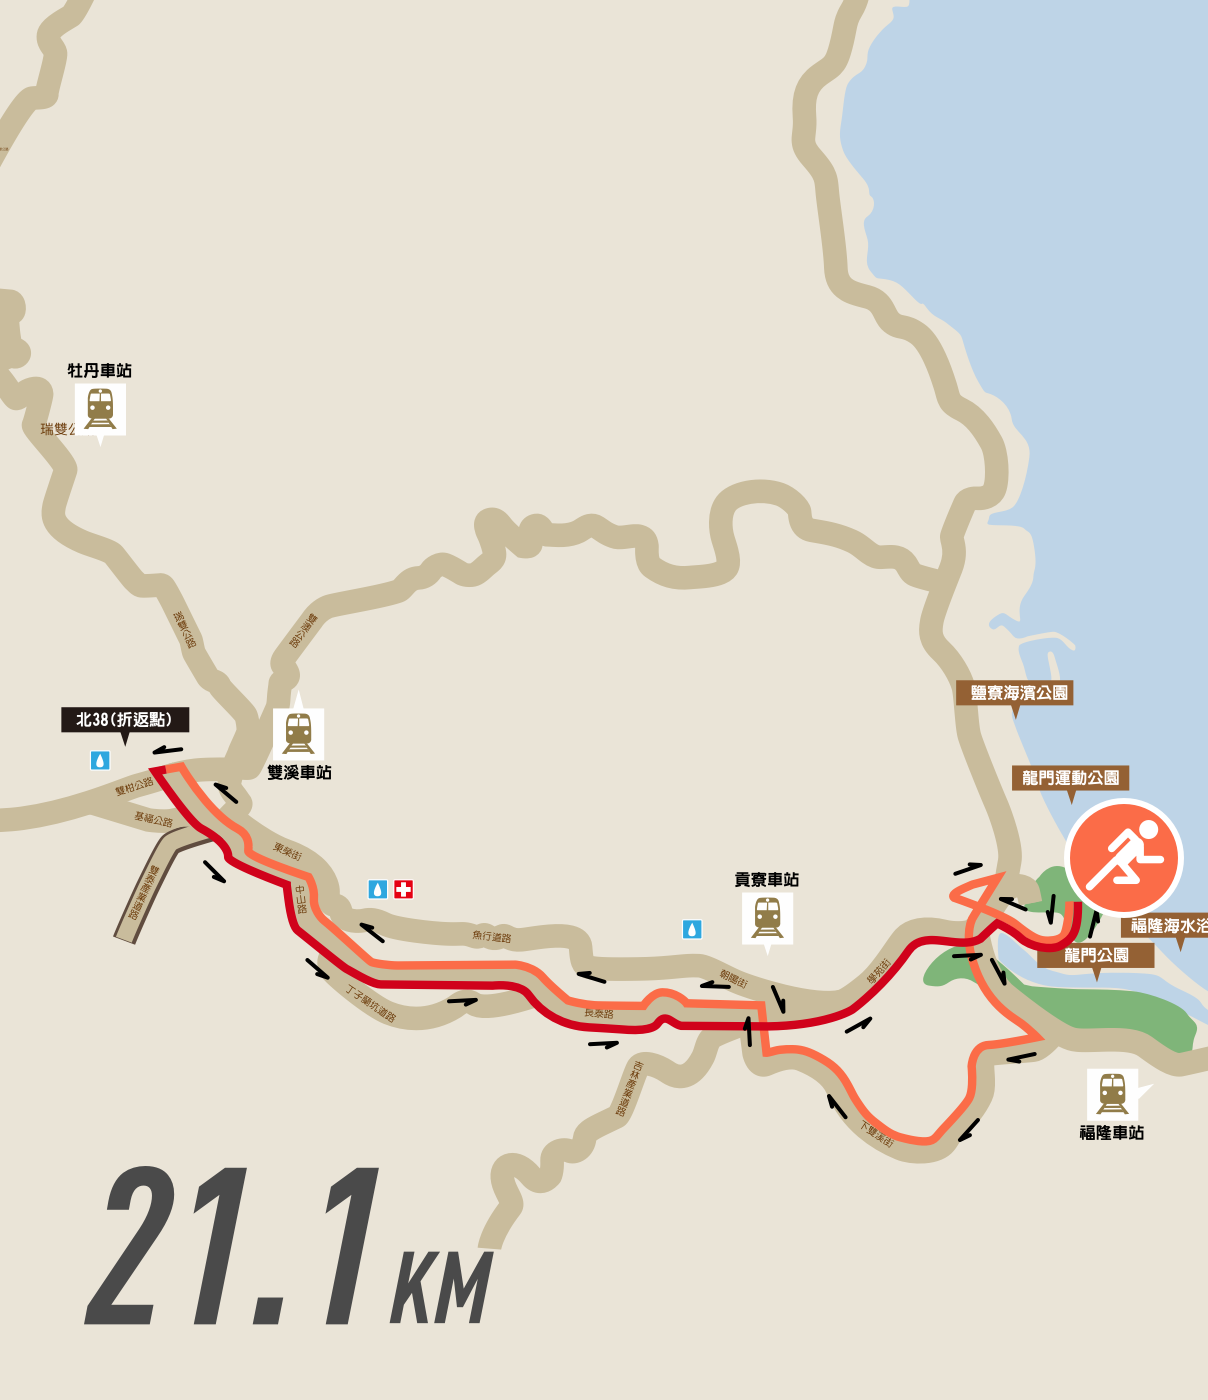
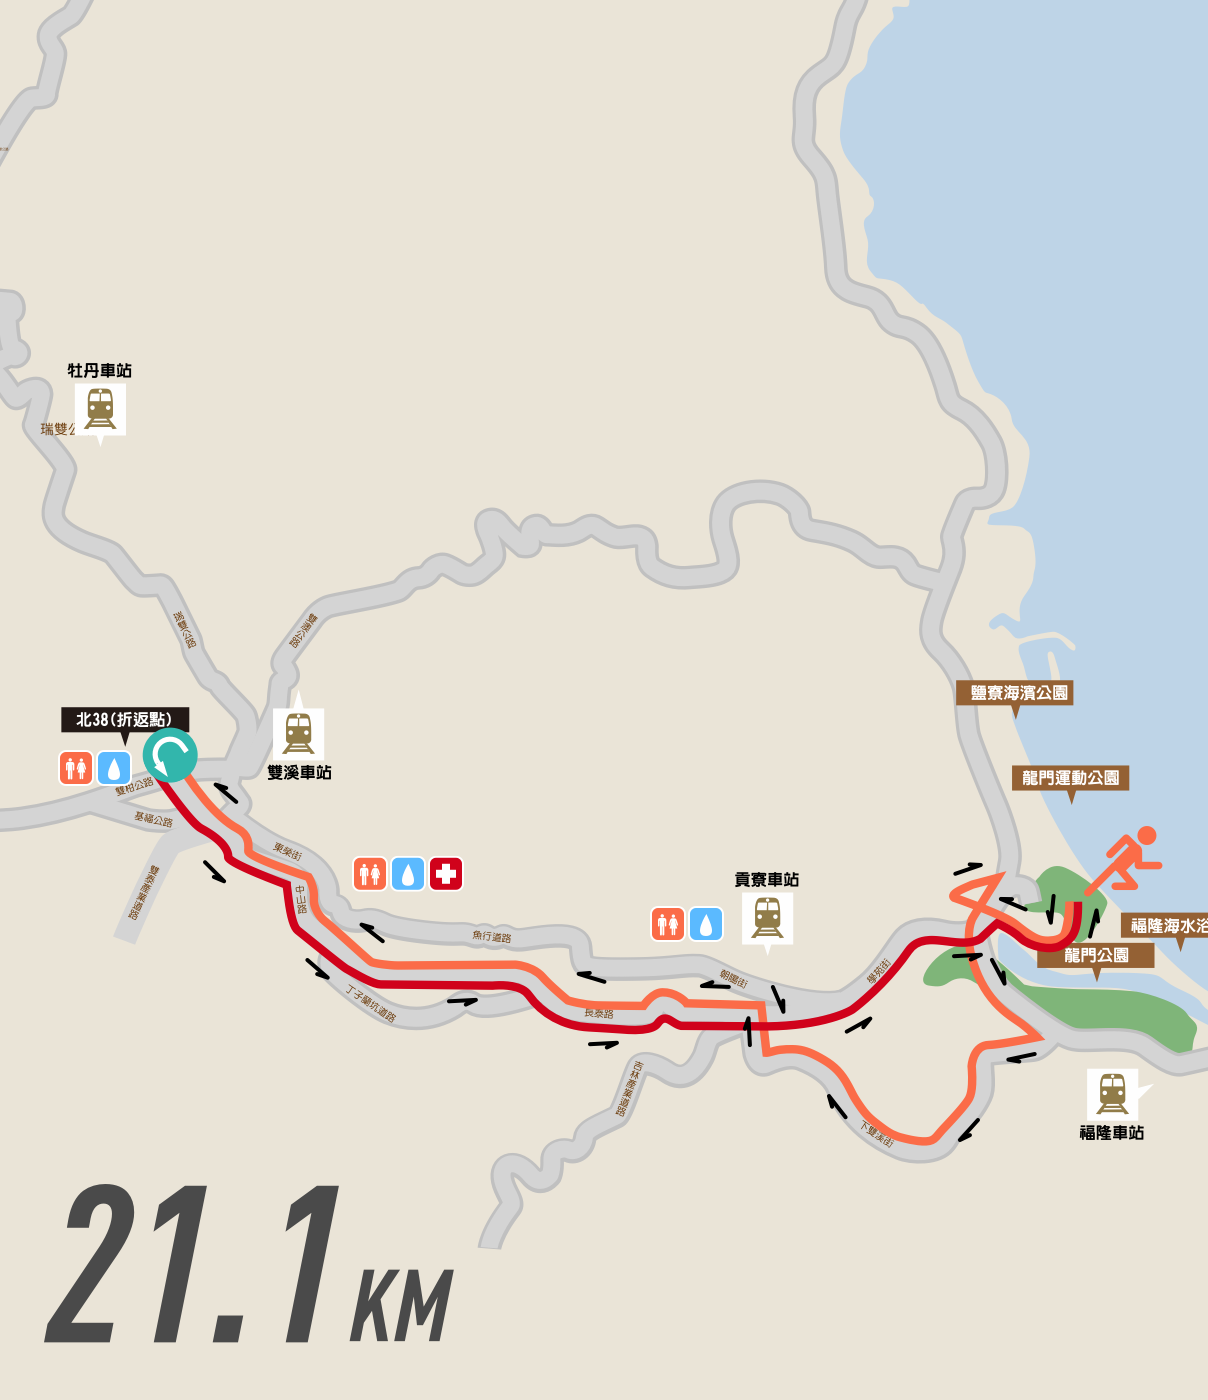
delete live map / add whole map

diff --git a/athlete.html b/athlete.html
@@ -115,6 +115,13 @@
 				        </div>
 					</div>
     				<!--live-map-->
+    				 <div class="info-map">
+                        <img src="images/BuyenPavilion211_wholeMap.png" alt="台北不厭亭2017 21.1km" class="img-responsive">
+                    </div>
+                    <div class="info-map">
+                        <img src="images/BuyenPavilion42195_wholeMap.png" alt="台北不厭亭2017 42.195km" class="img-responsive">
+                    </div>
+<!--
     				<div class="live-map" id="map-sport14-1">
     					<div class="dashboard">
     						<div class="sport-icon"></div>
@@ -131,6 +138,7 @@
     					</div>
     					<div class="split-mask"><img src="images/BuyenPavilion211_end.png" alt=""></div>
     				</div>
+-->
     				<!--sport dashboard-->
     				<div class="achievement">
     					<span>總成績</span>
